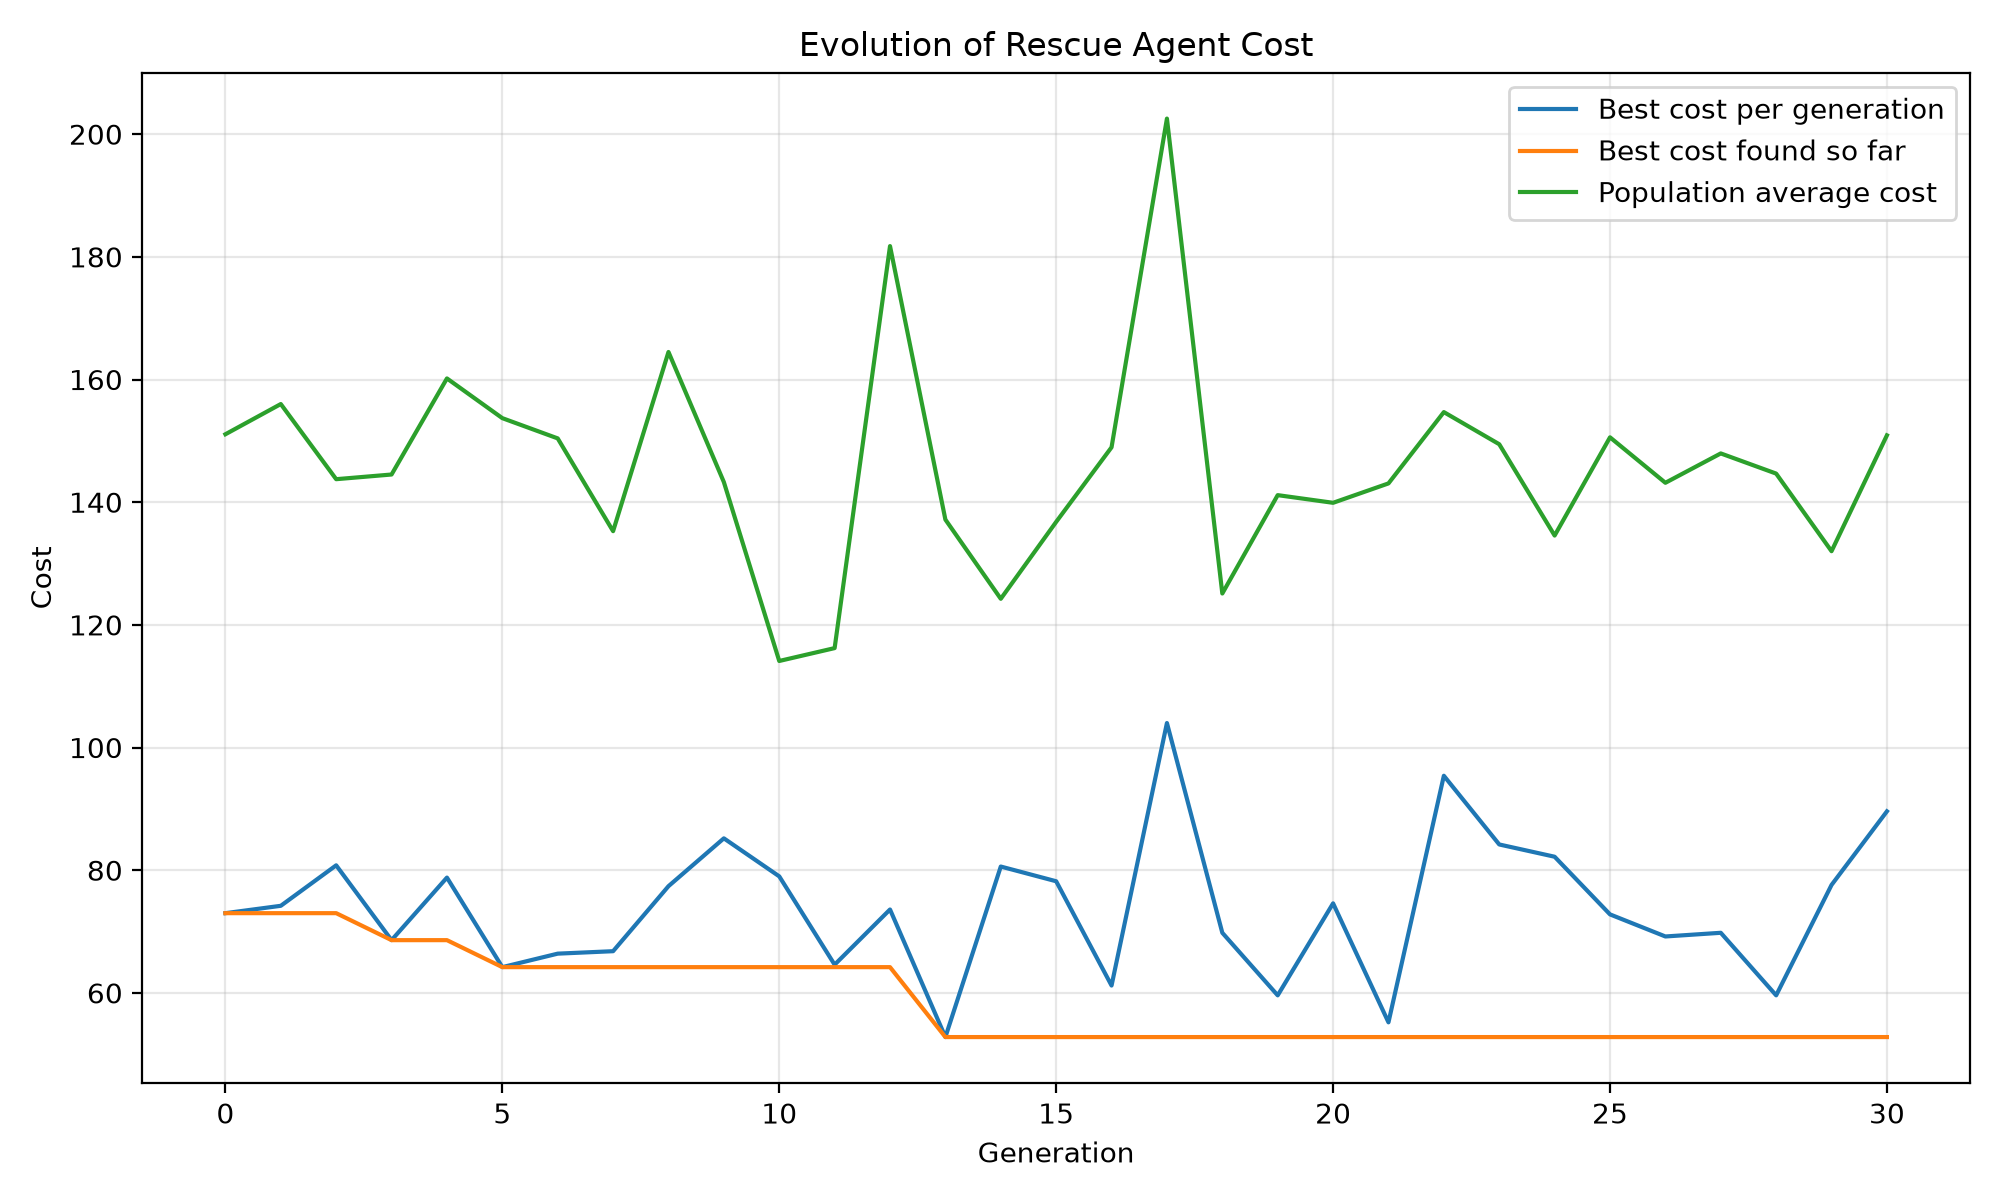
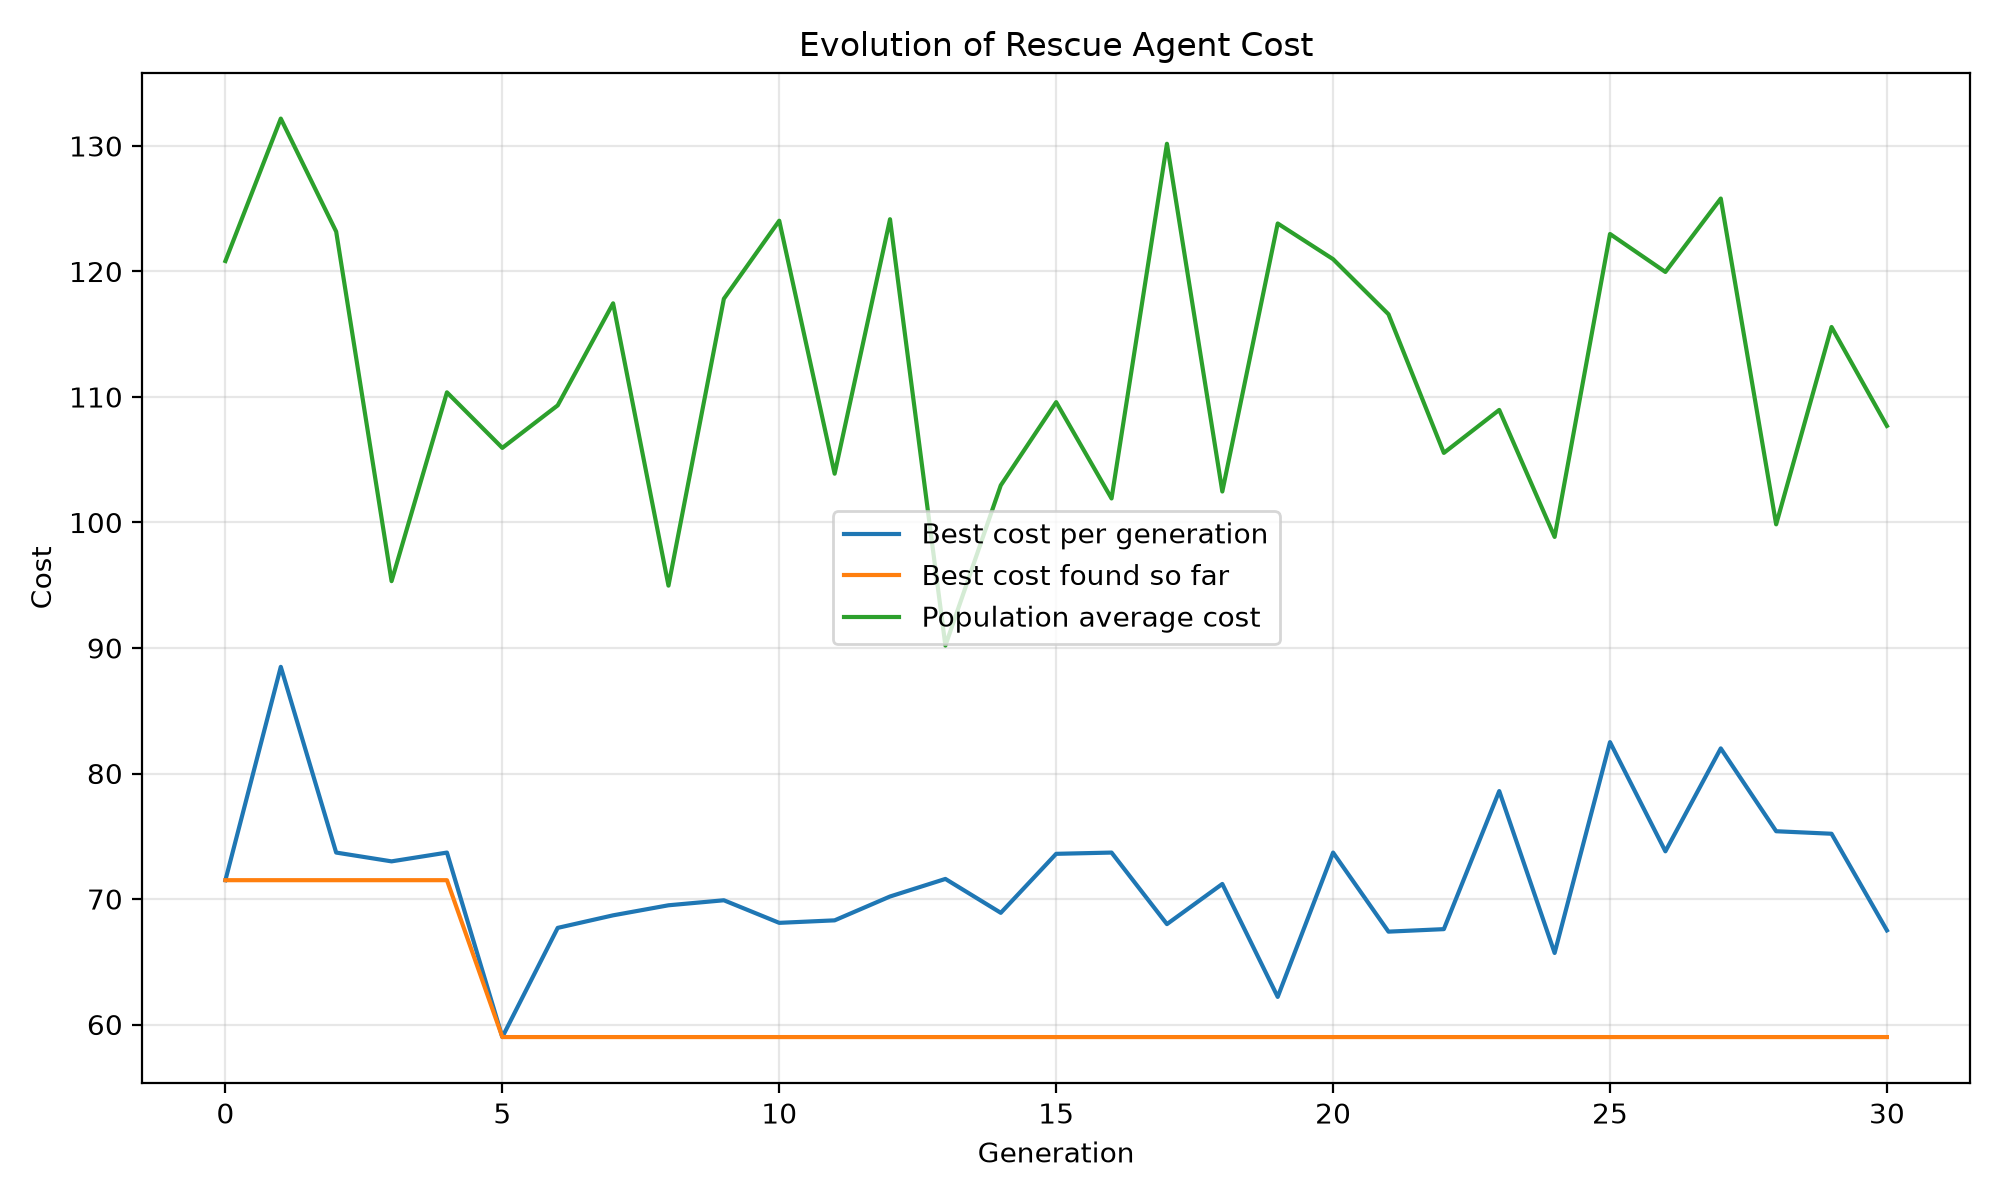
multimap evaluation

diff --git a/main.py b/main.py
@@ -36,6 +36,12 @@ FINAL_VALIDATION_RUNS = 30
 
 GENERATIONS = 30
 
+# multi-map training
+TRAINING_SCENARIOS = (1, 2)
+VALIDATION_SCENARIOS = (3,)
+
+RUNS_PER_SCENARIO = 5
+
 sarge_image = pygame.image.load("sargeant.png").convert_alpha()
 victim_image = pygame.image.load("victim.png").convert_alpha()
 
@@ -273,7 +279,7 @@ def calculate_cost():
 
     failure_penalty = 0
 
-    if not rescued:
+    if run_finished and not rescued:
         failure_penalty = FAILURE_PENALTY
 
     cost = (
@@ -540,49 +546,95 @@ def load_scenario(scenario_id):
 
 # fast simulation
 
-def simulate_chromosome(test_chromosome):
+
+# fast simulation
+def simulate_chromosome(test_chromosome, scenario_id=1):
+
+    scenario = SCENARIOS[scenario_id]
+    sim_obstacles = scenario["obstacles"]
+    sim_victim = scenario["victim"]
 
     sim_pos = START_POSITION.copy()
-
-    sim_visits = {
-        tuple(sim_pos): 1
-    }
+    sim_visits = {tuple(sim_pos): 1}
 
     sim_steps = 0
     sim_repeated = 0
-    sim_rescued = False
+    sim_rescued = tuple(sim_pos) == sim_victim
+
+    directions = [
+        (0, -1), (0, 1),
+        (-1, 0), (1, 0),
+        (-1, -1), (1, -1),
+        (-1, 1), (1, 1)
+    ]
+
+    def valid_cell(x, y):
+        return (
+            0 <= x < GRID_COLS
+            and 0 <= y < GRID_ROWS
+            and (x, y) not in sim_obstacles
+        )
+
+    def valid_step(x, y, nx, ny):
+        if not valid_cell(nx, ny):
+            return False
+
+        dx = nx - x
+        dy = ny - y
+
+        if abs(dx) == 1 and abs(dy) == 1:
+            if not valid_cell(x + dx, y):
+                return False
+
+            if not valid_cell(x, y + dy):
+                return False
+
+        return True
+
+    def distance_to_victim(x, y):
+        return max(
+            abs(x - sim_victim[0]),
+            abs(y - sim_victim[1])
+        )
+
+    def local_scent(x, y):
+        distance = distance_to_victim(x, y)
+
+        if distance > SCENT_RADIUS:
+            return 0.0
+
+        return 1.0 - distance / SCENT_RADIUS
+
+    def local_obstacle_penalty(x, y):
+        blocked = 0
+
+        for dx, dy in directions:
+            if not valid_cell(x + dx, y + dy):
+                blocked += 1
+
+        return blocked / 8
 
     while sim_steps < MAX_STEPS and not sim_rescued:
 
         x, y = sim_pos
+        candidates = []
 
-        candidates = [
-            (x, y - 1),
-            (x, y + 1),
-            (x - 1, y),
-            (x + 1, y)
-        ]
+        for dx, dy in directions:
 
-        valid_candidates = []
+            nx = x + dx
+            ny = y + dy
 
-        for nx, ny in candidates:
-
-            if not valid_position(nx, ny):
+            if not valid_step(x, y, nx, ny):
                 continue
 
-            # scent
-            scent = scent_strength(nx, ny)
+            scent = local_scent(nx, ny)
 
-            # exploration
-            if (nx, ny) not in sim_visits:
-                exploration = 1.0
-            else:
-                exploration = 0.0
+            exploration = (
+                1.0 if (nx, ny) not in sim_visits
+                else 0.0
+            )
 
-            # obstacle avoidance
-            obstacle = obstacle_penalty(nx, ny)
-
-            # memory
+            obstacle = local_obstacle_penalty(nx, ny)
             memory = sim_visits.get((nx, ny), 0)
 
             score = (
@@ -594,22 +646,17 @@ def simulate_chromosome(test_chromosome):
 
             score += random.uniform(-0.01, 0.01)
 
-            valid_candidates.append(
-                (score, nx, ny)
-            )
+            candidates.append((score, nx, ny))
 
-        if not valid_candidates:
+        if not candidates:
             break
 
-        valid_candidates.sort(
-            key=lambda item: item[0],
-            reverse=True
+        _, best_x, best_y = max(
+            candidates,
+            key=lambda item: item[0]
         )
 
-        _, best_x, best_y = valid_candidates[0]
-
         sim_pos = [best_x, best_y]
-
         sim_steps += 1
 
         key = tuple(sim_pos)
@@ -619,18 +666,14 @@ def simulate_chromosome(test_chromosome):
 
         sim_visits[key] = sim_visits.get(key, 0) + 1
 
-        if sim_pos == victim_pos:
+        if key == sim_victim:
             sim_rescued = True
 
-    distance = (
-        abs(sim_pos[0] - victim_pos[0])
-        + abs(sim_pos[1] - victim_pos[1])
+    distance = distance_to_victim(*sim_pos)
+
+    failure_penalty = (
+        0 if sim_rescued else FAILURE_PENALTY
     )
-
-    failure_penalty = 0
-
-    if not sim_rescued:
-        failure_penalty = FAILURE_PENALTY
 
     cost = (
         sim_steps
@@ -644,20 +687,43 @@ def simulate_chromosome(test_chromosome):
         "steps": sim_steps,
         "repeated": sim_repeated,
         "distance": distance,
-        "cost": cost
+        "cost": cost,
+        "scenario": scenario_id
     }
 
-def evaluate_chromosome(test_chromosome, runs=3):
+
+def evaluate_chromosome(
+    test_chromosome,
+    runs=RUNS_PER_SCENARIO,
+    scenario_ids=None
+):
+
+    if scenario_ids is None:
+        scenario_ids = TRAINING_SCENARIOS
 
     results = []
+    scenario_costs = []
 
-    for _ in range(runs):
-        result = simulate_chromosome(test_chromosome)
-        results.append(result)
+    for scenario_id in scenario_ids:
 
-    average_cost = sum(
-        result["cost"] for result in results
-    ) / runs
+        costs = []
+
+        for _ in range(runs):
+
+            result = simulate_chromosome(
+                test_chromosome,
+                scenario_id=scenario_id
+            )
+
+            results.append(result)
+            costs.append(result["cost"])
+
+        scenario_average = sum(costs) / len(costs)
+        scenario_costs.append(scenario_average)
+
+    average_cost = (
+        sum(scenario_costs) / len(scenario_costs)
+    )
 
     return average_cost, results
 
@@ -733,7 +799,7 @@ def print_population_results(evaluated_population):
             f"{rank:02}. "
             f"Dog {individual['id']:02} | "
             f"Cost: {individual['average_cost']:.2f} | "
-            f"Rescues: {individual['successful_runs']}/{EVALUATION_RUNS} | "
+            f"Rescues: {individual['successful_runs']}/{len(individual['results'])} | "
             f"Scent: {genes['scent']:.2f} | "
             f"Explore: {genes['exploration']:.2f} | "
             f"Obstacle: {genes['obstacle']:.2f} | "
@@ -808,7 +874,7 @@ def print_survivors(survivors):
             f"{rank:02}. "
             f"Dog {individual['id']:02} | "
             f"Cost: {individual['average_cost']:.2f} | "
-            f"Rescues: {individual['successful_runs']}/{EVALUATION_RUNS} | "
+            f"Rescues: {individual['successful_runs']}/{len(individual['results'])} | "
             f"Scent: {genes['scent']:.2f} | "
             f"Explore: {genes['exploration']:.2f} | "
             f"Obstacle: {genes['obstacle']:.2f} | "
@@ -985,11 +1051,12 @@ def population_average_cost(evaluated_population):
     return total / len(evaluated_population)
 
 
+
 def population_rescue_rate(evaluated_population):
 
-    total_runs = (
-        len(evaluated_population)
-        * EVALUATION_RUNS
+    total_runs = sum(
+        len(individual["results"])
+        for individual in evaluated_population
     )
 
     successful_runs = sum(
@@ -998,7 +1065,6 @@ def population_rescue_rate(evaluated_population):
     )
 
     return successful_runs / total_runs
-
 
 def run_evolution(generations=GENERATIONS):
 
@@ -1133,7 +1199,8 @@ def validate_best_chromosome(
 
     average_cost, results = evaluate_chromosome(
         best_chromosome,
-        runs=runs
+        runs=runs,
+        scenario_ids=VALIDATION_SCENARIOS
     )
 
     successful_runs = sum(
@@ -1259,6 +1326,10 @@ def save_best_result(
             f"Average repeated visits: "
             f"{validation['average_repeated']:.2f}\n"
         )
+
+        file.write(f"Training scenarios: {TRAINING_SCENARIOS}\n")
+
+        file.write(f"Validation scenarios: {VALIDATION_SCENARIOS}\n")
 
     print(
         f"Best result saved to {filename}"
@@ -1761,7 +1832,7 @@ def draw_text():
 
     screen.blit(
         scenario_text,
-        (GRID_WIDTH + 24, 105)
+        (GRID_WIDTH + 24, 80)
     )
 
     screen.blit(
@@ -1776,8 +1847,8 @@ def draw_text():
 
     # run status
     draw_panel_section(
-        95,
-        205,
+        120,
+        230,
         "Run Status"
     )
 
@@ -1811,7 +1882,7 @@ def draw_text():
         ("Cost", f"{calculate_cost():.1f}")
     ]
 
-    y = 138
+    y = 165
 
     for label, value in lines:
 
@@ -1843,8 +1914,8 @@ def draw_text():
 
     # genome
     draw_panel_section(
-        325,
-        190,
+        375,
+        200,
         "Genome"
     )
 
@@ -1855,7 +1926,7 @@ def draw_text():
         ("Memory", chromosome["memory"])
     ]
 
-    y = 370
+    y = 420
 
     for label, value in genes:
 
@@ -2132,15 +2203,10 @@ while running:
             running = False
 
         if event.type == pygame.KEYDOWN:
-
             if event.key == pygame.K_ESCAPE:
                 show_controls = not show_controls
                 if show_controls:
                     auto_mode = False
-            
-            elif event.key == pygame.K_F11:
-                toggle_fullscreen()    
-
             elif show_controls:
                 continue  # ignore other keys while controls overlay is shown
   
@@ -2153,9 +2219,9 @@ while running:
             elif event.key == pygame.K_e:
                 average_cost, results = evaluate_chromosome(
                     chromosome,
-                    runs=3
+                    runs=5,
+                    scenario_ids=(current_scenario,)
                 )
-
                 print("\nChromosome evaluation")
 
                 print(chromosome)
